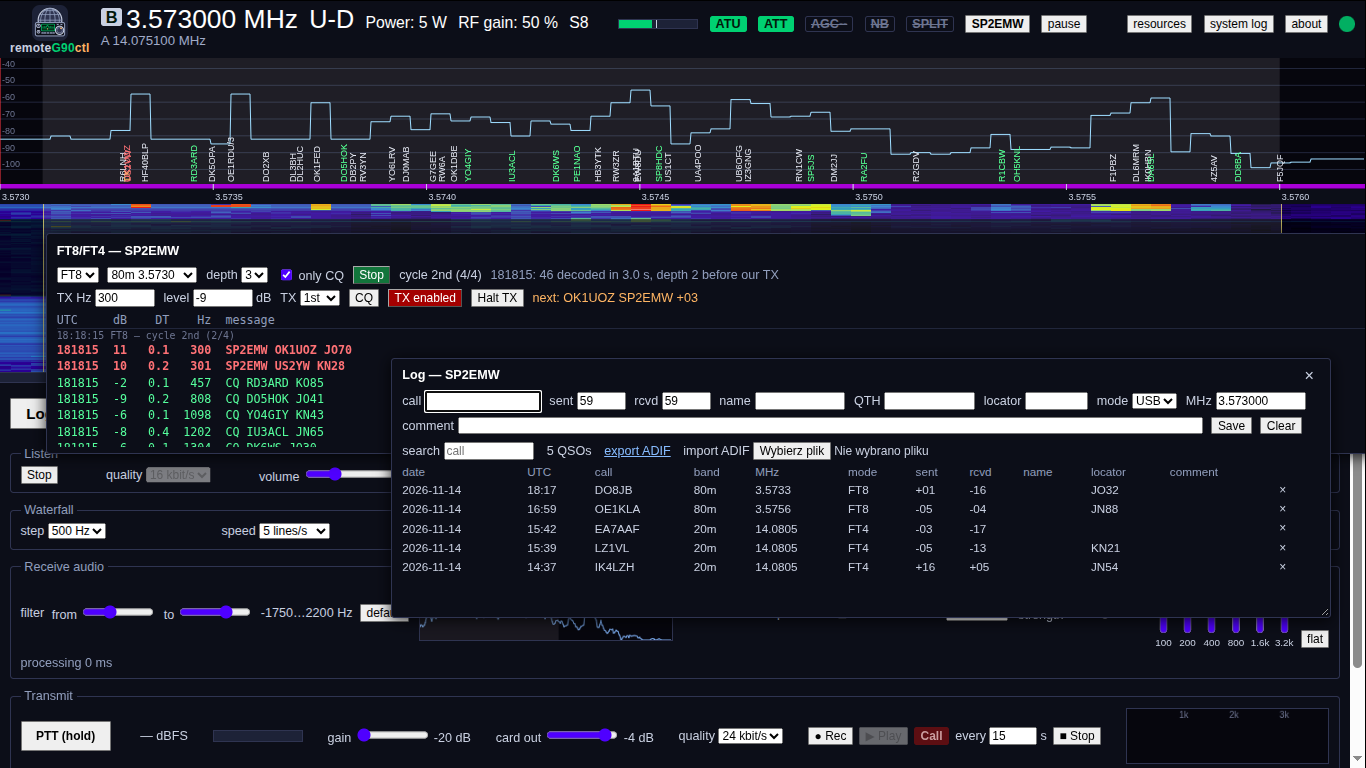
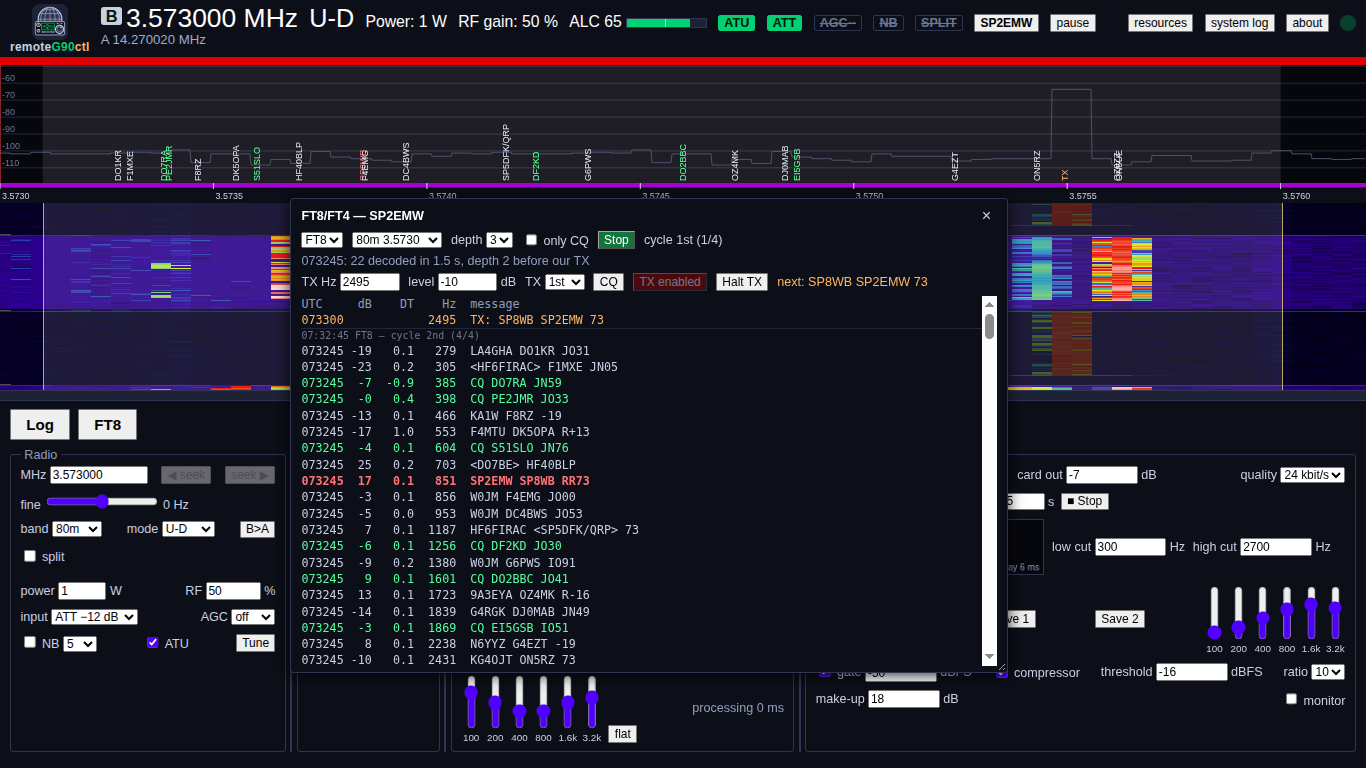
docs: new screenshots in the README (columns layout) (#8)

diff --git a/README.md b/README.md
@@ -82,21 +82,23 @@ The parts and the wiring are in [docs/hardware.md](docs/hardware.md).
 
 ### Screenshots
 
-Taken on the owner's station (a G90 on 80 and 20 m, the server on a Fujitsu
-Futro S740, 14 November 2026).
+Taken on the owner's station (a G90 on 80 and 40 m, the server on a Fujitsu
+Futro S740, November 2026).
 
 ![The page in LSB on 80 m: the spectrum and the waterfall from the radio's I/Q output, and the station log window with SSB, FT8 and FT4 contacts](docs/assets/screenshots/ssb-log.png)
 
 *Listening to SSB on 80 m, with the station log open.*
 
-![The page in LSB on 80 m: spectrum, waterfall, the tuning, radio, receive and transmit controls](docs/assets/screenshots/waterfall-ssb.png)
+![The page in LSB on 40 m: spectrum, waterfall, and below them Log, FT8, PTT with the audio state, then the Radio, Waterfall, Receive audio and Transmit audio columns](docs/assets/screenshots/waterfall-ssb.png)
 
-*The whole page: waterfall, tuning, the radio's settings, the receive audio
+*The whole page, on 40 m: waterfall, PTT with the receive and transmit audio
+state, and the settings in columns — radio, waterfall, receive audio
 processing and the transmit chain.*
 
-![FT8 on 80 m: decodes written over the spectrum, the FT8/FT4 window with a call in progress and transmitting enabled, and the station log](docs/assets/screenshots/ft8.png)
+![FT8 on 80 m: decodes written over the spectrum, the FT8/FT4 window with a QSO in progress, transmitting the final 73](docs/assets/screenshots/ft8.png)
 
-*FT8 on 80 m: decodes over the spectrum and in the list, a QSO in progress.*
+*FT8 on 80 m: decodes over the spectrum and in the list, a QSO in progress —
+the red bar shows the radio transmitting.*
 
 ## What it can't do (yet, or ever)
 

diff --git a/README.pl.md b/README.pl.md
@@ -86,21 +86,23 @@ sprawdzałem. Części i połączenia są w [docs/hardware.md](docs/hardware.md)
 
 ### Zrzuty ekranu
 
-Ze stacji autora (G90 na 80 i 20 m, serwer na Fujitsu Futro S740,
-14 listopada 2026).
+Ze stacji autora (G90 na 80 i 40 m, serwer na Fujitsu Futro S740,
+listopad 2026).
 
 ![Strona w LSB na 80 m: widmo i wodospad z wyjścia I/Q radia oraz okno dziennika łączności z łącznościami SSB, FT8 i FT4](docs/assets/screenshots/ssb-log.png)
 
 *Odsłuch SSB na 80 m z otwartym dziennikiem łączności.*
 
-![Strona w LSB na 80 m: widmo, wodospad, strojenie, ustawienia radia, odbiór i nadawanie](docs/assets/screenshots/waterfall-ssb.png)
+![Strona w LSB na 40 m: widmo, wodospad, pod nimi Log, FT8, PTT ze stanem dźwięku, dalej kolumny Radio, Waterfall, Receive audio i Transmit audio](docs/assets/screenshots/waterfall-ssb.png)
 
-*Cała strona: wodospad, strojenie, ustawienia radia, obróbka dźwięku odbioru
-i tor nadawania.*
+*Cała strona na 40 m: wodospad, PTT ze stanem dźwięku odbioru i nadawania oraz
+ustawienia w kolumnach — radio, wodospad, obróbka dźwięku odbioru i tor
+nadawania.*
 
-![FT8 na 80 m: dekody wypisane na widmie, okno FT8/FT4 z trwającą łącznością i włączonym nadawaniem oraz dziennik łączności](docs/assets/screenshots/ft8.png)
+![FT8 na 80 m: dekody wypisane na widmie, okno FT8/FT4 z trwającą łącznością, nadawanie końcowego 73](docs/assets/screenshots/ft8.png)
 
-*FT8 na 80 m: dekody na widmie i na liście, trwająca łączność.*
+*FT8 na 80 m: dekody na widmie i na liście, trwająca łączność — czerwony pasek
+pokazuje, że radio nadaje.*
 
 ## Czego nie potrafi (jeszcze albo wcale)
 
